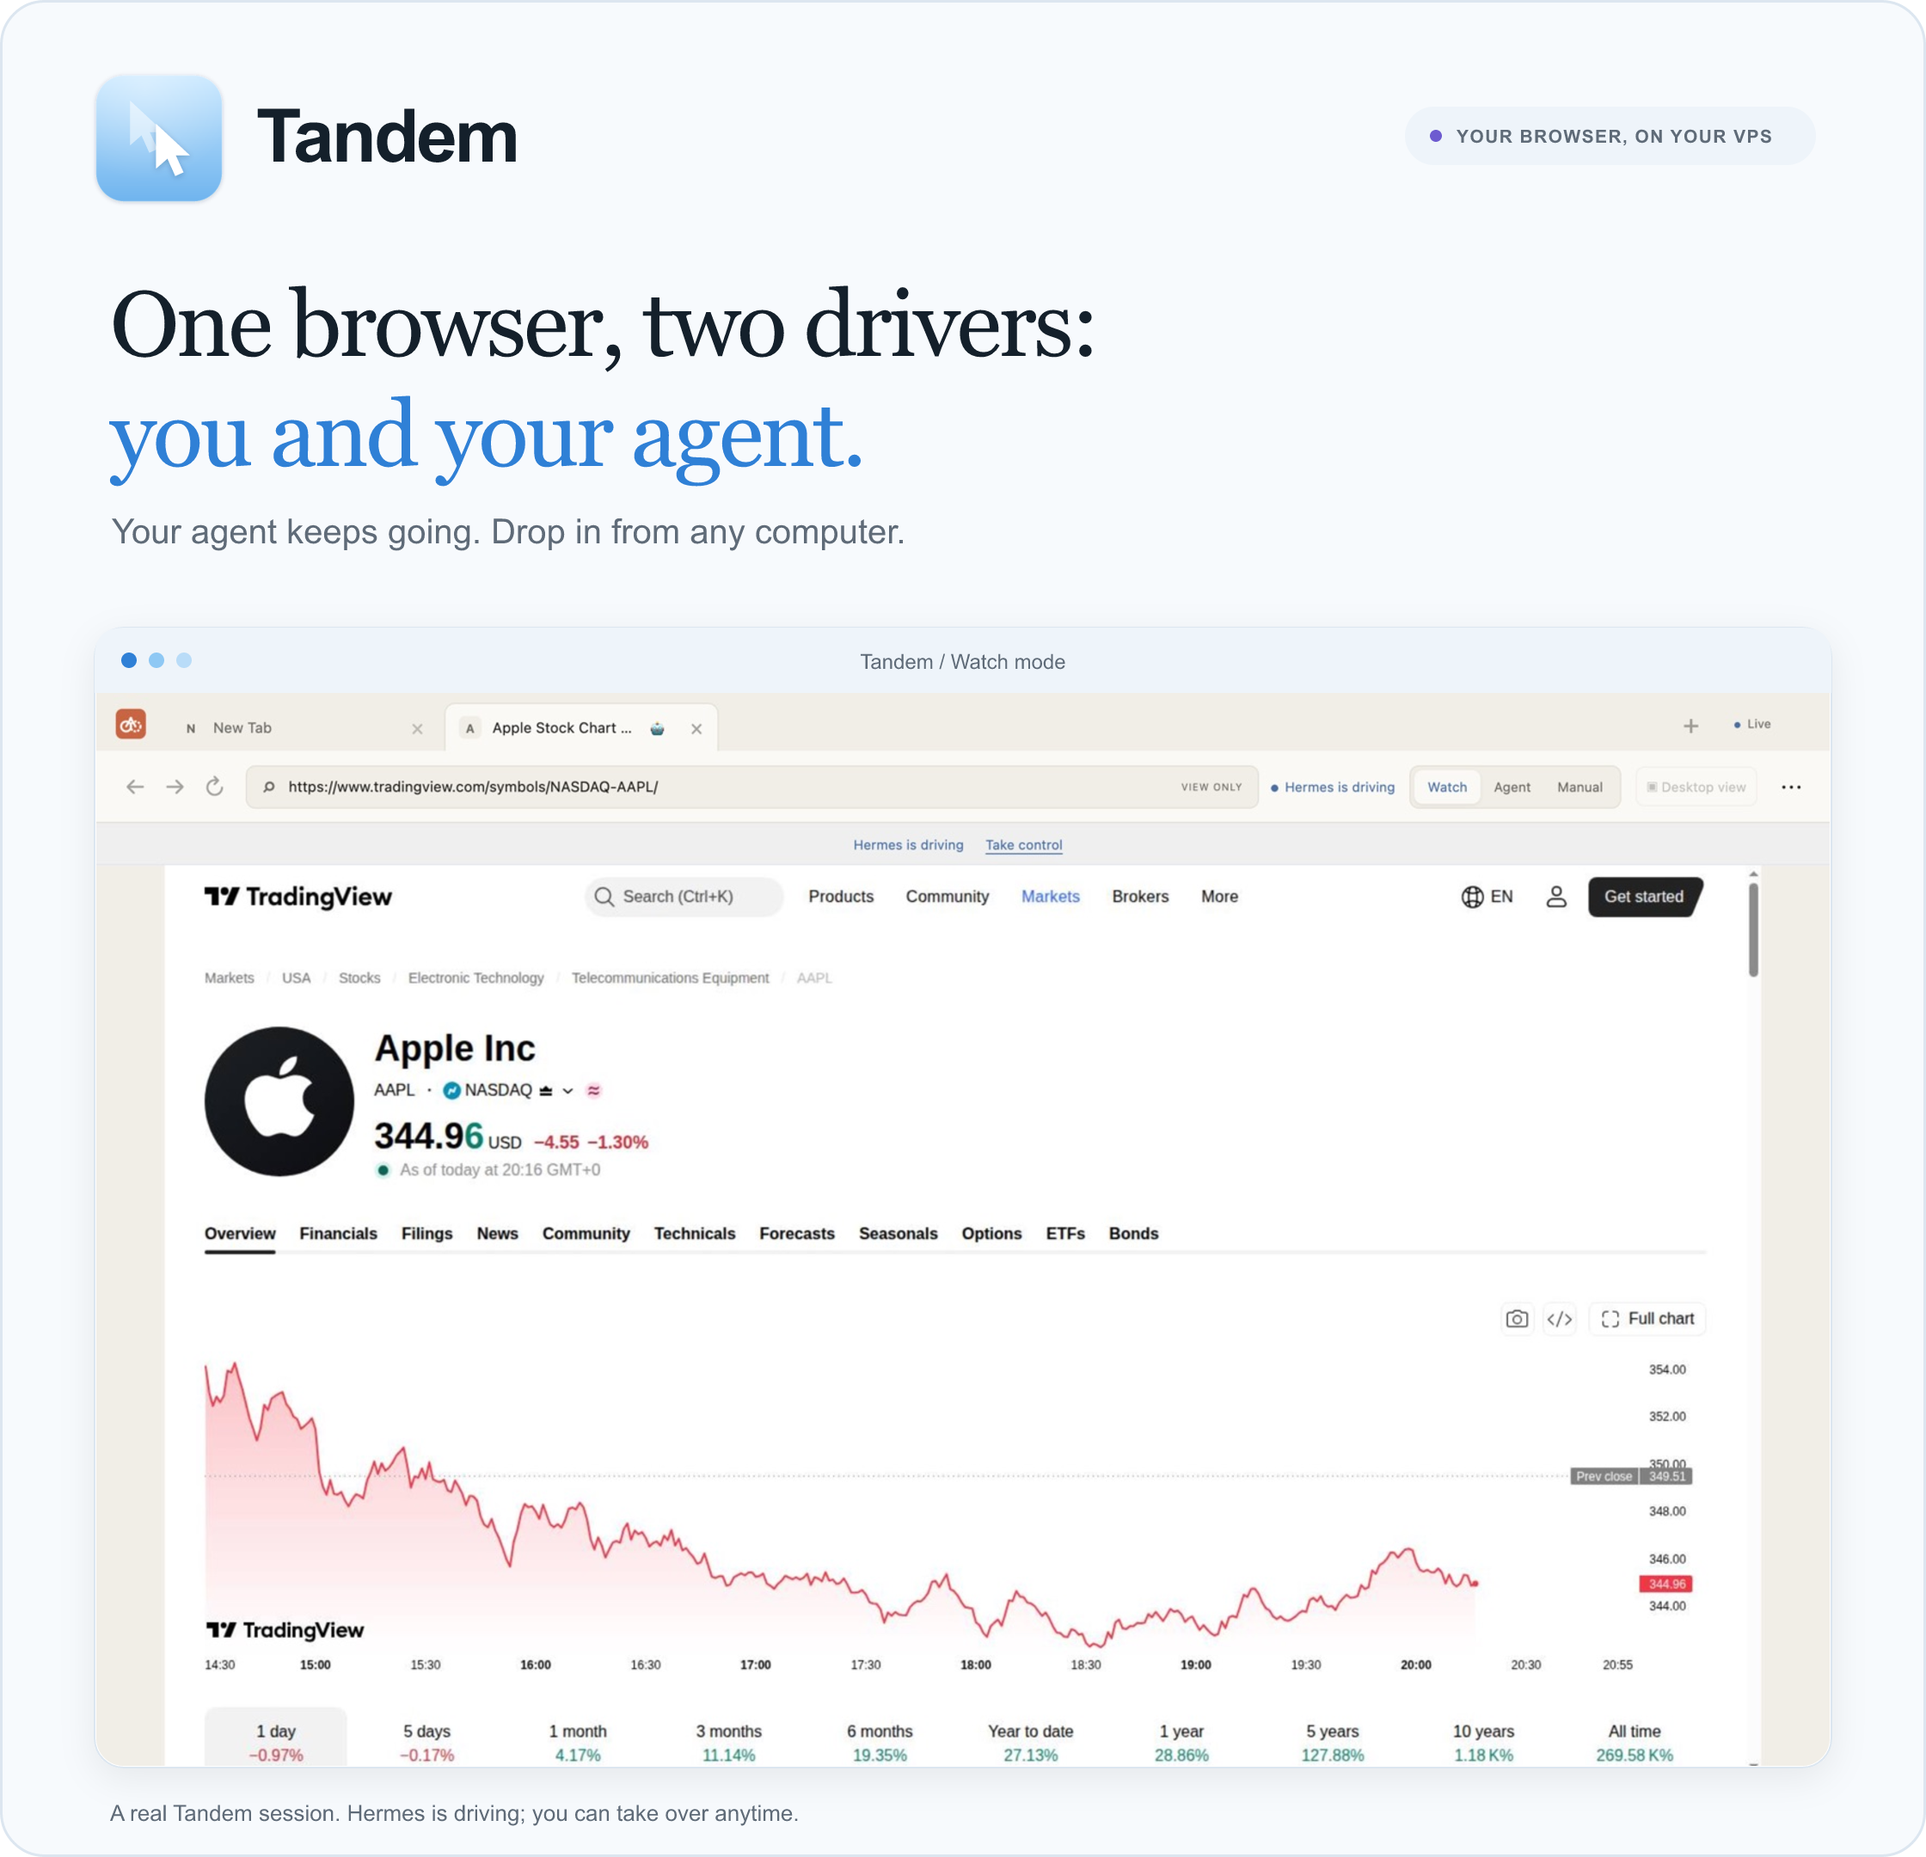
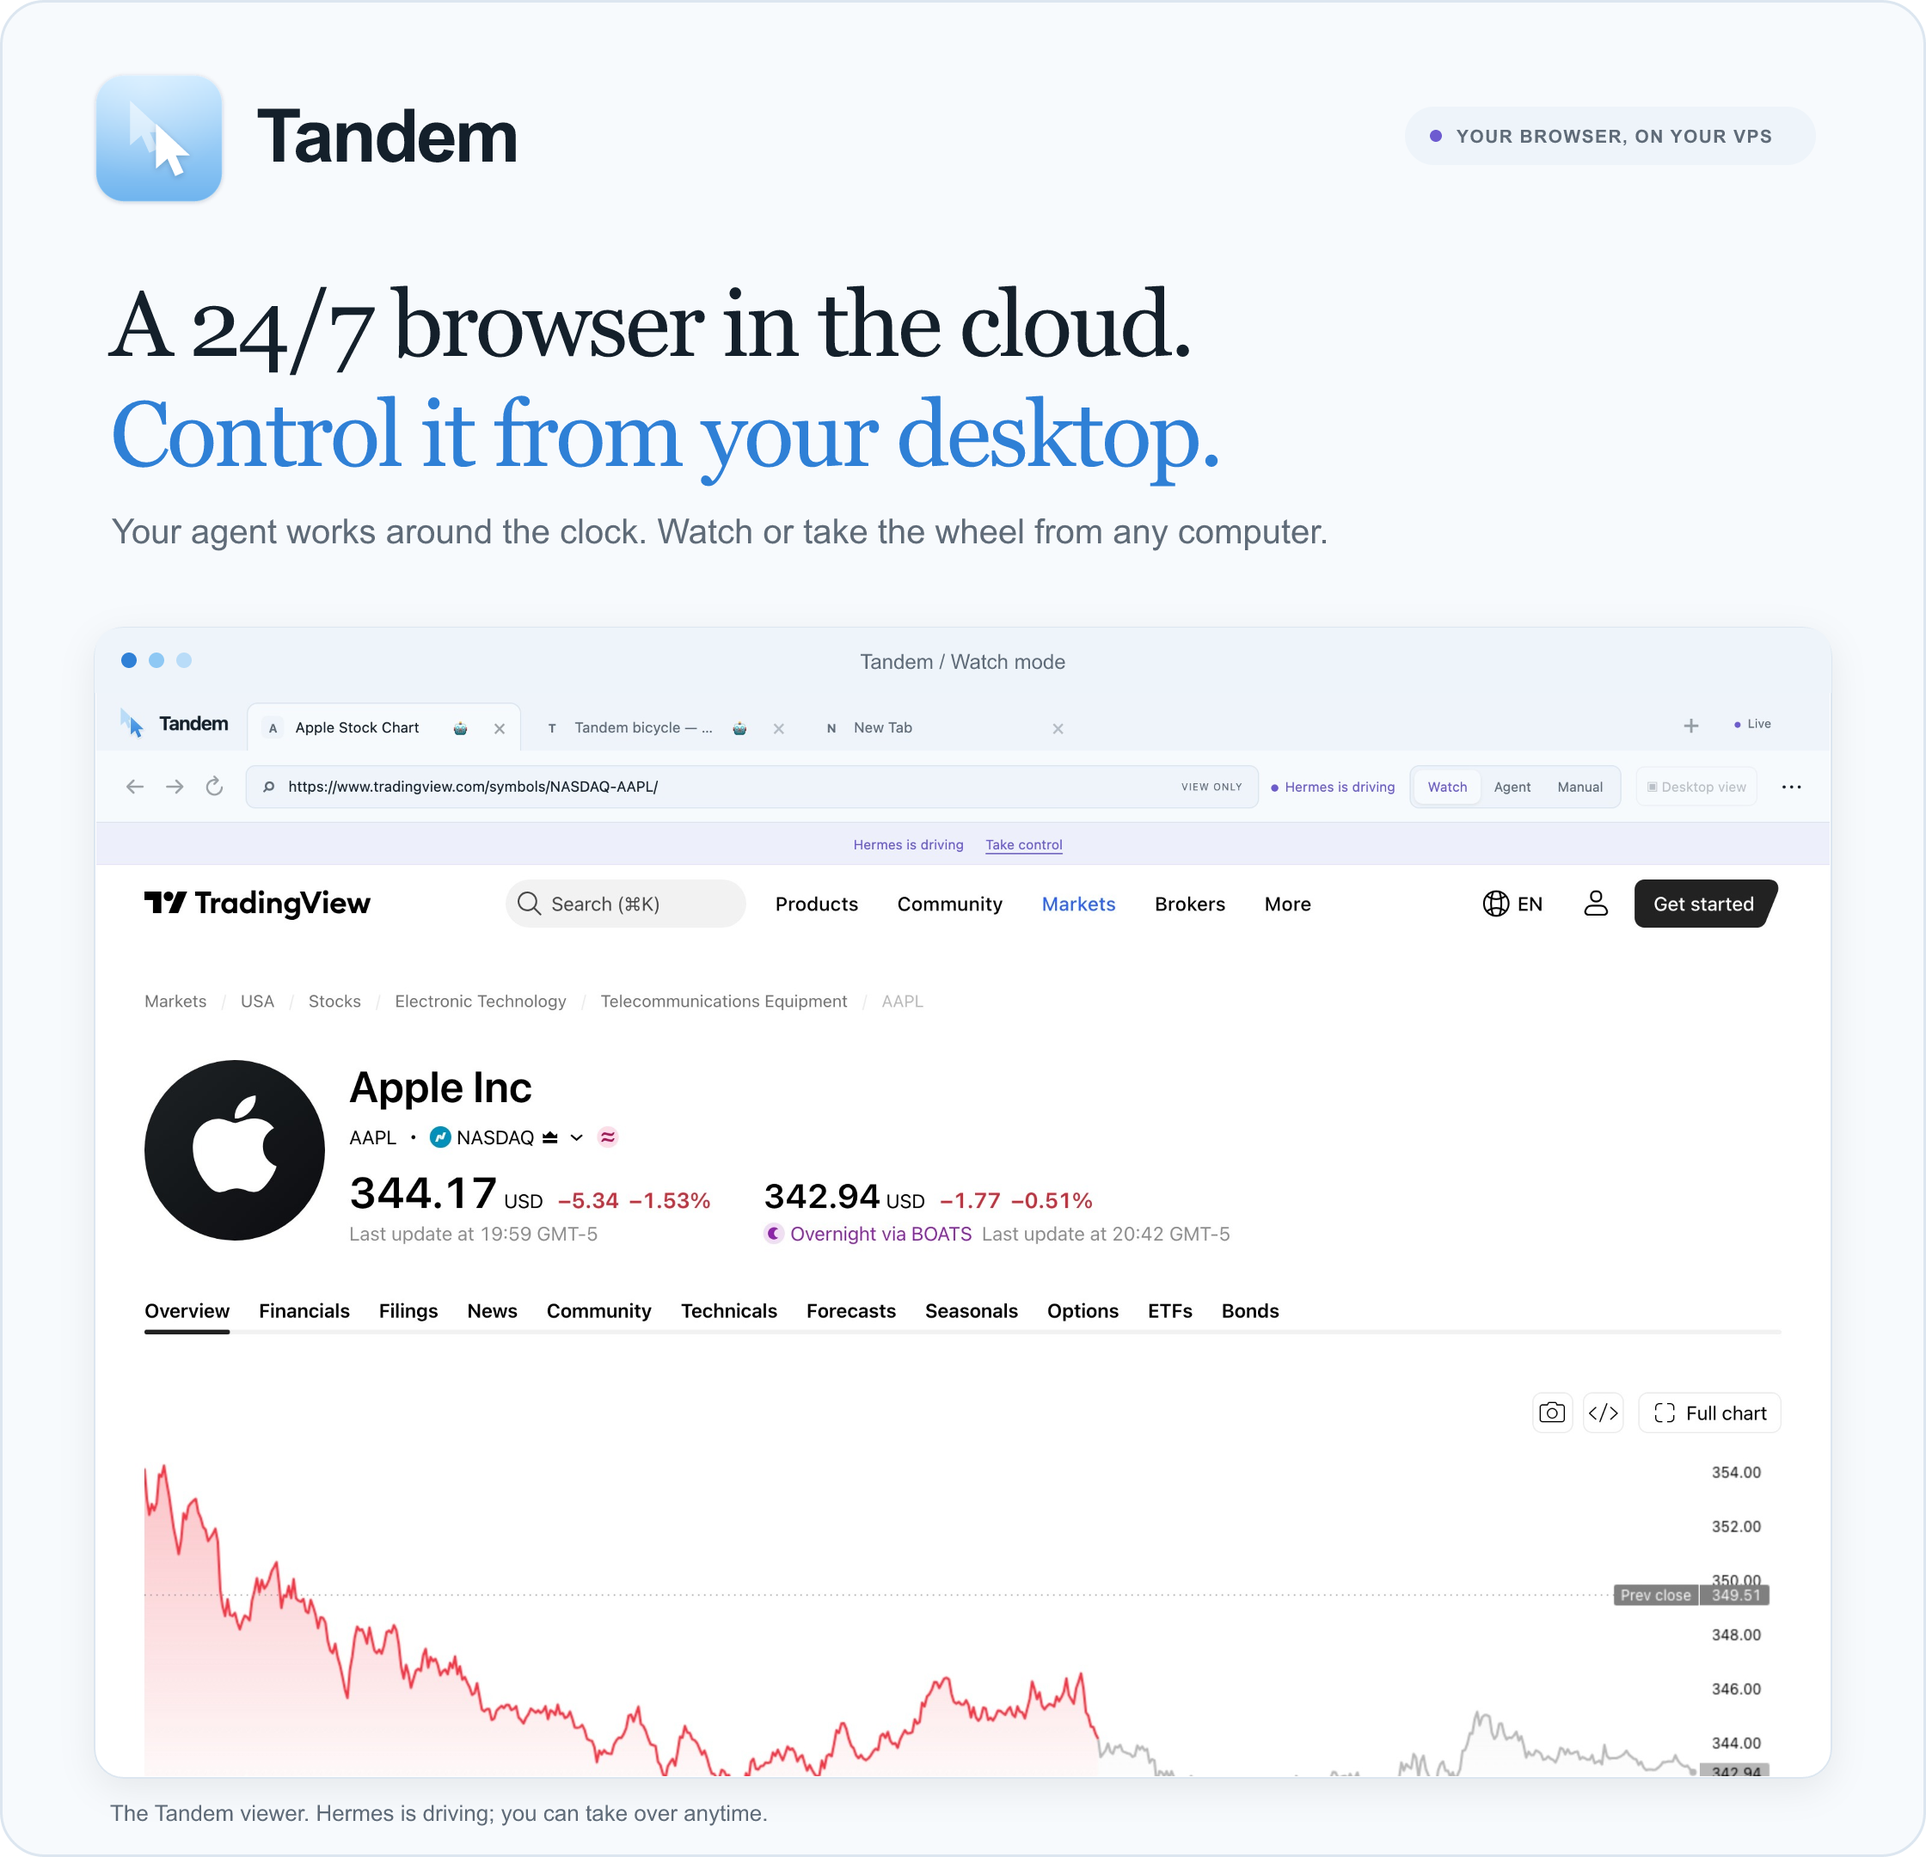
Refresh README with cloud-blue viewer captures and cloud tagline
Capture the current viewer with real TradingView and Wikipedia frames,
update the hero and badges, and document the repeatable headless workflow.

diff --git a/tandem/web/dev/mock-server.ts b/tandem/web/dev/mock-server.ts
@@ -2,7 +2,11 @@ import { resolve, sep } from 'node:path';
 import type { ServerWebSocket } from 'bun';
 import type { Control, Message, RemoteDialog, RemoteTab } from '../src/types';
 const brand = await Bun.file(resolve(import.meta.dir, '../../branding/brand.json')).json();
-const jpeg = new Uint8Array(await Bun.file(resolve(import.meta.dir, 'sample-frame.jpg')).arrayBuffer());
+// Optional local fixture for repeatable documentation captures. Production never
+// imports this server; normal visual checks retain the original sample and timing.
+const scene: { frame?: string; width?: number; height?: number; tabs?: RemoteTab[]; activeTargetId?: string; autoActivity?: boolean; pendingAgentCalls?: number } = process.env.TANDEM_DEV_SCENE
+  ? await Bun.file(process.env.TANDEM_DEV_SCENE).json() : {};
+const jpeg = new Uint8Array(await Bun.file(scene.frame || resolve(import.meta.dir, 'sample-frame.jpg')).arrayBuffer());
 const dist = resolve(import.meta.dir, '../dist');
 const password = process.env.TANDEM_DEV_PASSWORD || crypto.randomUUID();
 const totp = process.env.TANDEM_DEV_TOTP === '1';
@@ -13,12 +17,12 @@ const sockets = new Set<ServerWebSocket<SocketData>>();
 const audit: Record<string, unknown>[] = [];
 const observed: Message[] = [];
 let counter = 3, seq = 0, agentTick = 0;
-let tabs: RemoteTab[] = [
+let tabs: RemoteTab[] = scene.tabs ?? [
   { targetId: 'tab-1', url: 'https://en.wikipedia.org/wiki/Tandem_bicycle', title: 'Tandem bicycle — Wikipedia', loading: false, canGoBack: true, canGoForward: false, opener: 'agent', lastAgentActivityAt: Date.now() },
   { targetId: 'tab-2', url: 'https://example.com/research', title: 'Research notes', loading: false, canGoBack: false, canGoForward: false, opener: 'agent' },
   { targetId: 'tab-3', url: 'https://example.com/', title: 'A little space to explore', loading: false, canGoBack: false, canGoForward: false, opener: 'human' },
 ];
-let activeTargetId = 'tab-1';
+let activeTargetId = scene.activeTargetId ?? 'tab-1';
 let control: Control = { controller: 'agent', since: Date.now(), yours: false, agentBusy: false, pendingAgentCalls: 0 };
 let dialog: RemoteDialog | undefined;
 interface SocketData { sessionId: string; viewed: string; hello: boolean }
@@ -30,7 +34,7 @@ function updateControl() { for (const ws of sockets) emit(ws, { t: 'control', ..
 function updateTabs() { broadcast({ t: 'tabs', tabs, activeTargetId }); }
 function frame(ws: ServerWebSocket<SocketData>) {
   if (!ws.data.hello || ws.getBufferedAmount() > 2e6 || !tabs.some(t => t.targetId === ws.data.viewed)) return;
-  const header = new TextEncoder().encode(JSON.stringify({ targetId: ws.data.viewed, seq: ++seq, deviceWidth: 1600, deviceHeight: 913, offsetTop: 0, pageScaleFactor: 1, scrollOffsetX: 0, scrollOffsetY: 0, timestamp: Date.now() / 1000, format: 'jpeg' }));
+  const header = new TextEncoder().encode(JSON.stringify({ targetId: ws.data.viewed, seq: ++seq, deviceWidth: scene.width ?? 1600, deviceHeight: scene.height ?? 913, offsetTop: 0, pageScaleFactor: 1, scrollOffsetX: 0, scrollOffsetY: 0, timestamp: Date.now() / 1000, format: 'jpeg' }));
   const bytes = new Uint8Array(4 + header.length + jpeg.length);
   new DataView(bytes.buffer).setUint32(0, header.length, false); bytes.set(header, 4); bytes.set(jpeg, 4 + header.length); ws.send(bytes);
 }
@@ -112,7 +116,7 @@ const server = Bun.serve<SocketData>({
       let message: Message;
       try { message = JSON.parse(String(raw)); } catch { ws.close(4403); return; }
       if (!ws.data.hello && message.t !== 'hello') { ws.close(4403); return; }
-      const allowed = ['hello', 'viewport', 'view', 'control.take', 'control.release', 'ping'];
+      const allowed = ['hello', 'viewport', 'view', 'follow', 'control.take', 'control.release', 'ping'];
       if (!allowed.includes(message.t) && !controlFor(ws.data.sessionId).yours) { emit(ws, { t: 'error', code: 'not_in_control', message: 'Take manual control first.' }); return; }
       // In-memory diagnostics omit private typed/clipboard content.
       observed.push({ ...message, ...(message.t === 'input.text' ? { text: '[redacted]' } : {}), ...(message.t === 'input.key' && message.text ? { text: '[redacted]' } : {}) });
@@ -120,9 +124,9 @@ const server = Bun.serve<SocketData>({
       const target = tabs.find(t => t.targetId === message.targetId);
       switch (message.t) {
         case 'hello': ws.data.hello = true; emit(ws, { t: 'welcome', sessionId: ws.data.sessionId, brand, control: controlFor(ws.data.sessionId), tabs, activeTargetId, serverVersion: 'dev-mock' }); if (dialog) emit(ws, { t: 'dialog', ...dialog }); frame(ws); break;
-        case 'viewport': break;
+        case 'viewport': case 'follow': break;
         case 'view': if (target) { ws.data.viewed = target.targetId; frame(ws); } break;
-        case 'control.take': control = { controller: 'human', holderSessionId: ws.data.sessionId, holderLabel: 'You', since: Date.now(), yours: true, agentBusy: false, pendingAgentCalls: 2 }; record('control.take'); updateControl(); break;
+        case 'control.take': control = { controller: 'human', holderSessionId: ws.data.sessionId, holderLabel: 'You', since: Date.now(), yours: true, agentBusy: false, pendingAgentCalls: scene.pendingAgentCalls ?? 2 }; record('control.take'); updateControl(); break;
         case 'control.release': if (controlFor(ws.data.sessionId).yours) { control = { controller: 'agent', since: Date.now(), yours: false, agentBusy: false, pendingAgentCalls: 0 }; record('control.release'); updateControl(); } break;
         case 'tab.activate': if (target) { activeTargetId = target.targetId; ws.data.viewed = target.targetId; updateTabs(); frame(ws); } break;
         case 'tab.new': {
@@ -158,7 +162,7 @@ setInterval(() => {
   }
 }, 500).unref();
 setInterval(() => {
-  if (control.controller !== 'agent' || !tabs.length) return;
+  if (scene.autoActivity === false || control.controller !== 'agent' || !tabs.length) return;
   const target = tabs[agentTick++ % Math.min(tabs.length, 2)]; activeTargetId = target.targetId; target.lastAgentActivityAt = Date.now(); updateTabs();
   broadcast({ t: 'agent.activity', tool: 'browser_get_page_content', targetId: target.targetId, at: Date.now() });
 }, 4500).unref();

diff --git a/.github/README.md b/.github/README.md
@@ -1,15 +1,15 @@
 <p align="center">
-  <img src="../tandem/docs/assets/icon.png" alt="Tandem app icon: a shared browser with blue agent and clay human pointers" width="96" height="96">
+  <img src="../tandem/docs/assets/icon.png" alt="Tandem app icon: a sky-blue squircle with two white pointers" width="96" height="96">
 </p>
 
 <h1 align="center">Tandem</h1>
 
-<p align="center">An always-on browser on your VPS, shared with your AI agent.</p>
+<p align="center">A 24/7 browser in the cloud. Control it from your desktop.</p>
 
 <p align="center">
-  <a href="../LICENSE"><img src="https://img.shields.io/badge/license-AGPL--3.0-C96442?style=flat-square&amp;labelColor=6B6A65" alt="License: AGPL-3.0"></a>
-  <a href="#desktop-app"><img src="https://img.shields.io/badge/desktop-macOS%20%C2%B7%20Windows%20%C2%B7%20Linux-4A6FA5?style=flat-square&amp;labelColor=6B6A65" alt="Desktop: macOS, Windows, Linux"></a>
-  <a href="https://github.com/Samin12/tandem-browser/releases"><img src="https://img.shields.io/badge/release-preview-C96442?style=flat-square&amp;labelColor=6B6A65" alt="Release: preview"></a>
+  <a href="../LICENSE"><img src="https://img.shields.io/badge/license-AGPL--3.0-2F80D6?style=flat-square&amp;labelColor=14202B" alt="License: AGPL-3.0"></a>
+  <a href="#desktop-app"><img src="https://img.shields.io/badge/desktop-macOS%20%C2%B7%20Windows%20%C2%B7%20Linux-2F80D6?style=flat-square&amp;labelColor=14202B" alt="Desktop: macOS, Windows, Linux"></a>
+  <a href="https://github.com/Samin12/tandem-browser/releases"><img src="https://img.shields.io/badge/release-preview-2F80D6?style=flat-square&amp;labelColor=14202B" alt="Release: preview"></a>
 </p>
 
 <p align="center">
@@ -21,7 +21,7 @@
 </p>
 
 <p align="center">
-  <img src="../tandem/docs/assets/hero.png" alt="Tandem. One browser, two drivers: you and your agent. A real Tandem session shows Hermes reading Apple's TradingView page." width="100%">
+  <img src="../tandem/docs/assets/hero.png" alt="Tandem. A 24/7 browser in the cloud. Control it from your desktop. The Tandem viewer shows Hermes driving on Apple's TradingView page." width="100%">
 </p>
 
 <p align="center"><sub>Built on <a href="https://github.com/browseros-ai/BrowserOS">BrowserOS neo</a> · AGPL-3.0 · Linux VPS (amd64/arm64)</sub></p>
@@ -39,11 +39,12 @@ app or any browser to see the same tabs, watch the agent work or take over.
 ## See it
 
 Watch your agent work live. Press **Manual** to click, type and scroll yourself;
-hand back when you're done. These are real screenshots from a Tandem server.
+hand back when you're done. Screenshots of the Tandem viewer, using real page
+captures in the development harness.
 
 | Hermes is driving (Watch mode) | You took the wheel (Manual mode) |
 | --- | --- |
-| <img src="../tandem/docs/assets/agent-driving.jpg" alt="Tandem viewer: Hermes has opened Apple's TradingView page; the banner says Hermes is driving." width="100%"> | <img src="../tandem/docs/assets/you-driving.jpg" alt="Tandem viewer in Manual mode on Wikipedia; the banner says You're driving, Hermes is paused, 1 waiting." width="100%"> |
+| <img src="../tandem/docs/assets/agent-driving.jpg" alt="Tandem viewer: Hermes has opened Apple's TradingView page; the banner says Hermes is driving." width="100%"> | <img src="../tandem/docs/assets/you-driving.jpg" alt="Tandem viewer in Manual mode on Wikipedia's Tandem bicycle article; the banner says You're driving, Hermes is paused." width="100%"> |
 
 | Mode | Who drives | What you see |
 | --- | --- | --- |

diff --git a/tandem/docs/assets/src/README.md b/tandem/docs/assets/src/README.md
@@ -16,12 +16,34 @@ Arial and Georgia, available on macOS. For consistent typography, render on a
 machine with those fonts installed. `icon.png` is a 256px render of the existing
 brand icon. Brand colors come from `tandem/branding/brand.json`.
 
-The hero references the unchanged real `agent-driving.jpg` screenshot and the
+The hero references the current `agent-driving.jpg` viewer capture and the
 brand's `app-icon.svg`. The script inlines these references in memory before
 rendering. It needs no network and opens no windows. The other SVGs use original
-line icons and opaque off-white backgrounds, including on GitHub's dark theme.
+line icons and opaque cloud-blue backgrounds, including on GitHub's dark theme.
 
-The original product screenshots are intentionally left unchanged.
+## Refresh the viewer screenshots
+
+```sh
+node tandem/docs/assets/src/capture-viewer.mjs /tmp/tandem-readme-blue
+node tandem/docs/assets/src/render.mjs
+```
+
+Requires Bun, the existing web dependencies, and Google Chrome (the same
+`CHROME_PATH` override as the preview). The script builds the current viewer,
+captures TradingView's Apple page and Wikipedia's Tandem bicycle article at
+1440px wide, then serves those real page frames through `web/dev/mock-server.ts`.
+The viewer is captured in Lite view, Watch and Manual modes, at **1440 × 900 CSS
+pixels, deviceScaleFactor 2**. These are development-harness compositions, not
+screenshots of a deployed server or a live agent session. No page content or
+production UI is fabricated. Public pages and prices can change between runs.
+
+The dev-only `TANDEM_DEV_SCENE` environment variable points to a JSON file with
+optional `frame` (absolute JPEG path), `width`/`height` (CSS frame dimensions),
+`tabs`, `activeTargetId`, `autoActivity` and `pendingAgentCalls` fields. Omit it
+to keep the original mock sample and behavior. The capture script writes its
+scene files, original page frames and verified capture metadata to the output
+directory, and high-quality JPEGs (at most 600 KiB each) to `docs/assets/`.
+It closes its isolated headless browser and mock servers on completion.
 
 ## Preview the README
 
@@ -33,7 +55,8 @@ Requires an authenticated `gh` CLI and Google Chrome at
 `/Applications/Google Chrome.app/Contents/MacOS/Google Chrome` (override with
 `CHROME_PATH`). Uses GitHub's Markdown API, embeds the local images and fetches
 the badge images, then captures desktop (1280px) and narrow (390px) light/dark
-previews. GitHub-style CSS is local to the preview, not injected into the README.
+previews and a contact sheet of every README image (including badges).
+GitHub-style CSS is local to the preview, not injected into the README.
 It opens no visible windows and deletes its temporary Chrome profile afterward.
 The script checks that every local image exists, all images load, the real
 viewport matches the requested width, and the page has no horizontal overflow.
